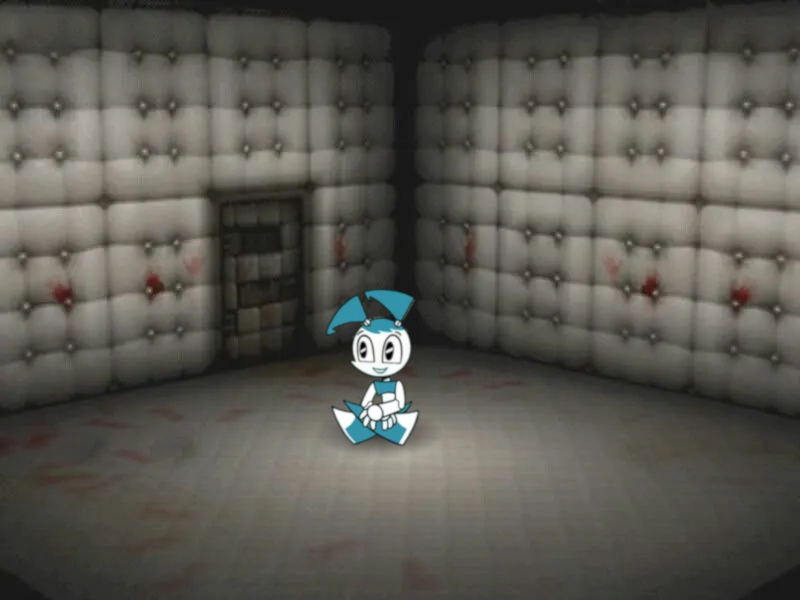
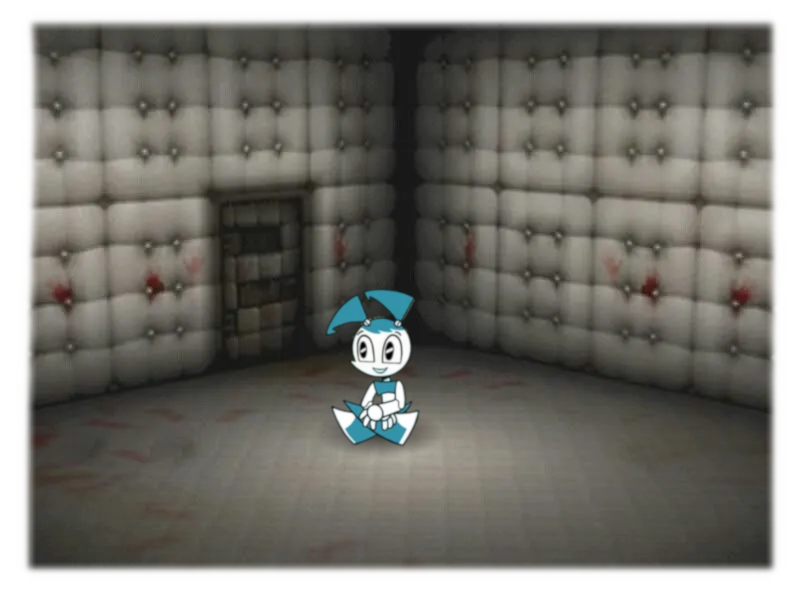
image smaller, poem more visible, outline biggerrrrr

Changed region(s): [[0.0, 0.0, 1.0, 1.0]]

diff --git a/index.html b/index.html
@@ -38,12 +38,14 @@ img {
   margin-left: auto;
   margin-right: auto;
   margin-bottom: 10px;
+  width: 600px; 
+  height: 450px;
 }
 
 body {
   margin: 10px;
   border: 5px inset rgb(0, 89, 95);
-  outline: 20px outset rgb(0, 89, 95);
+  outline: 10000px outset rgb(0, 89, 95);
 }
 
         </style>
